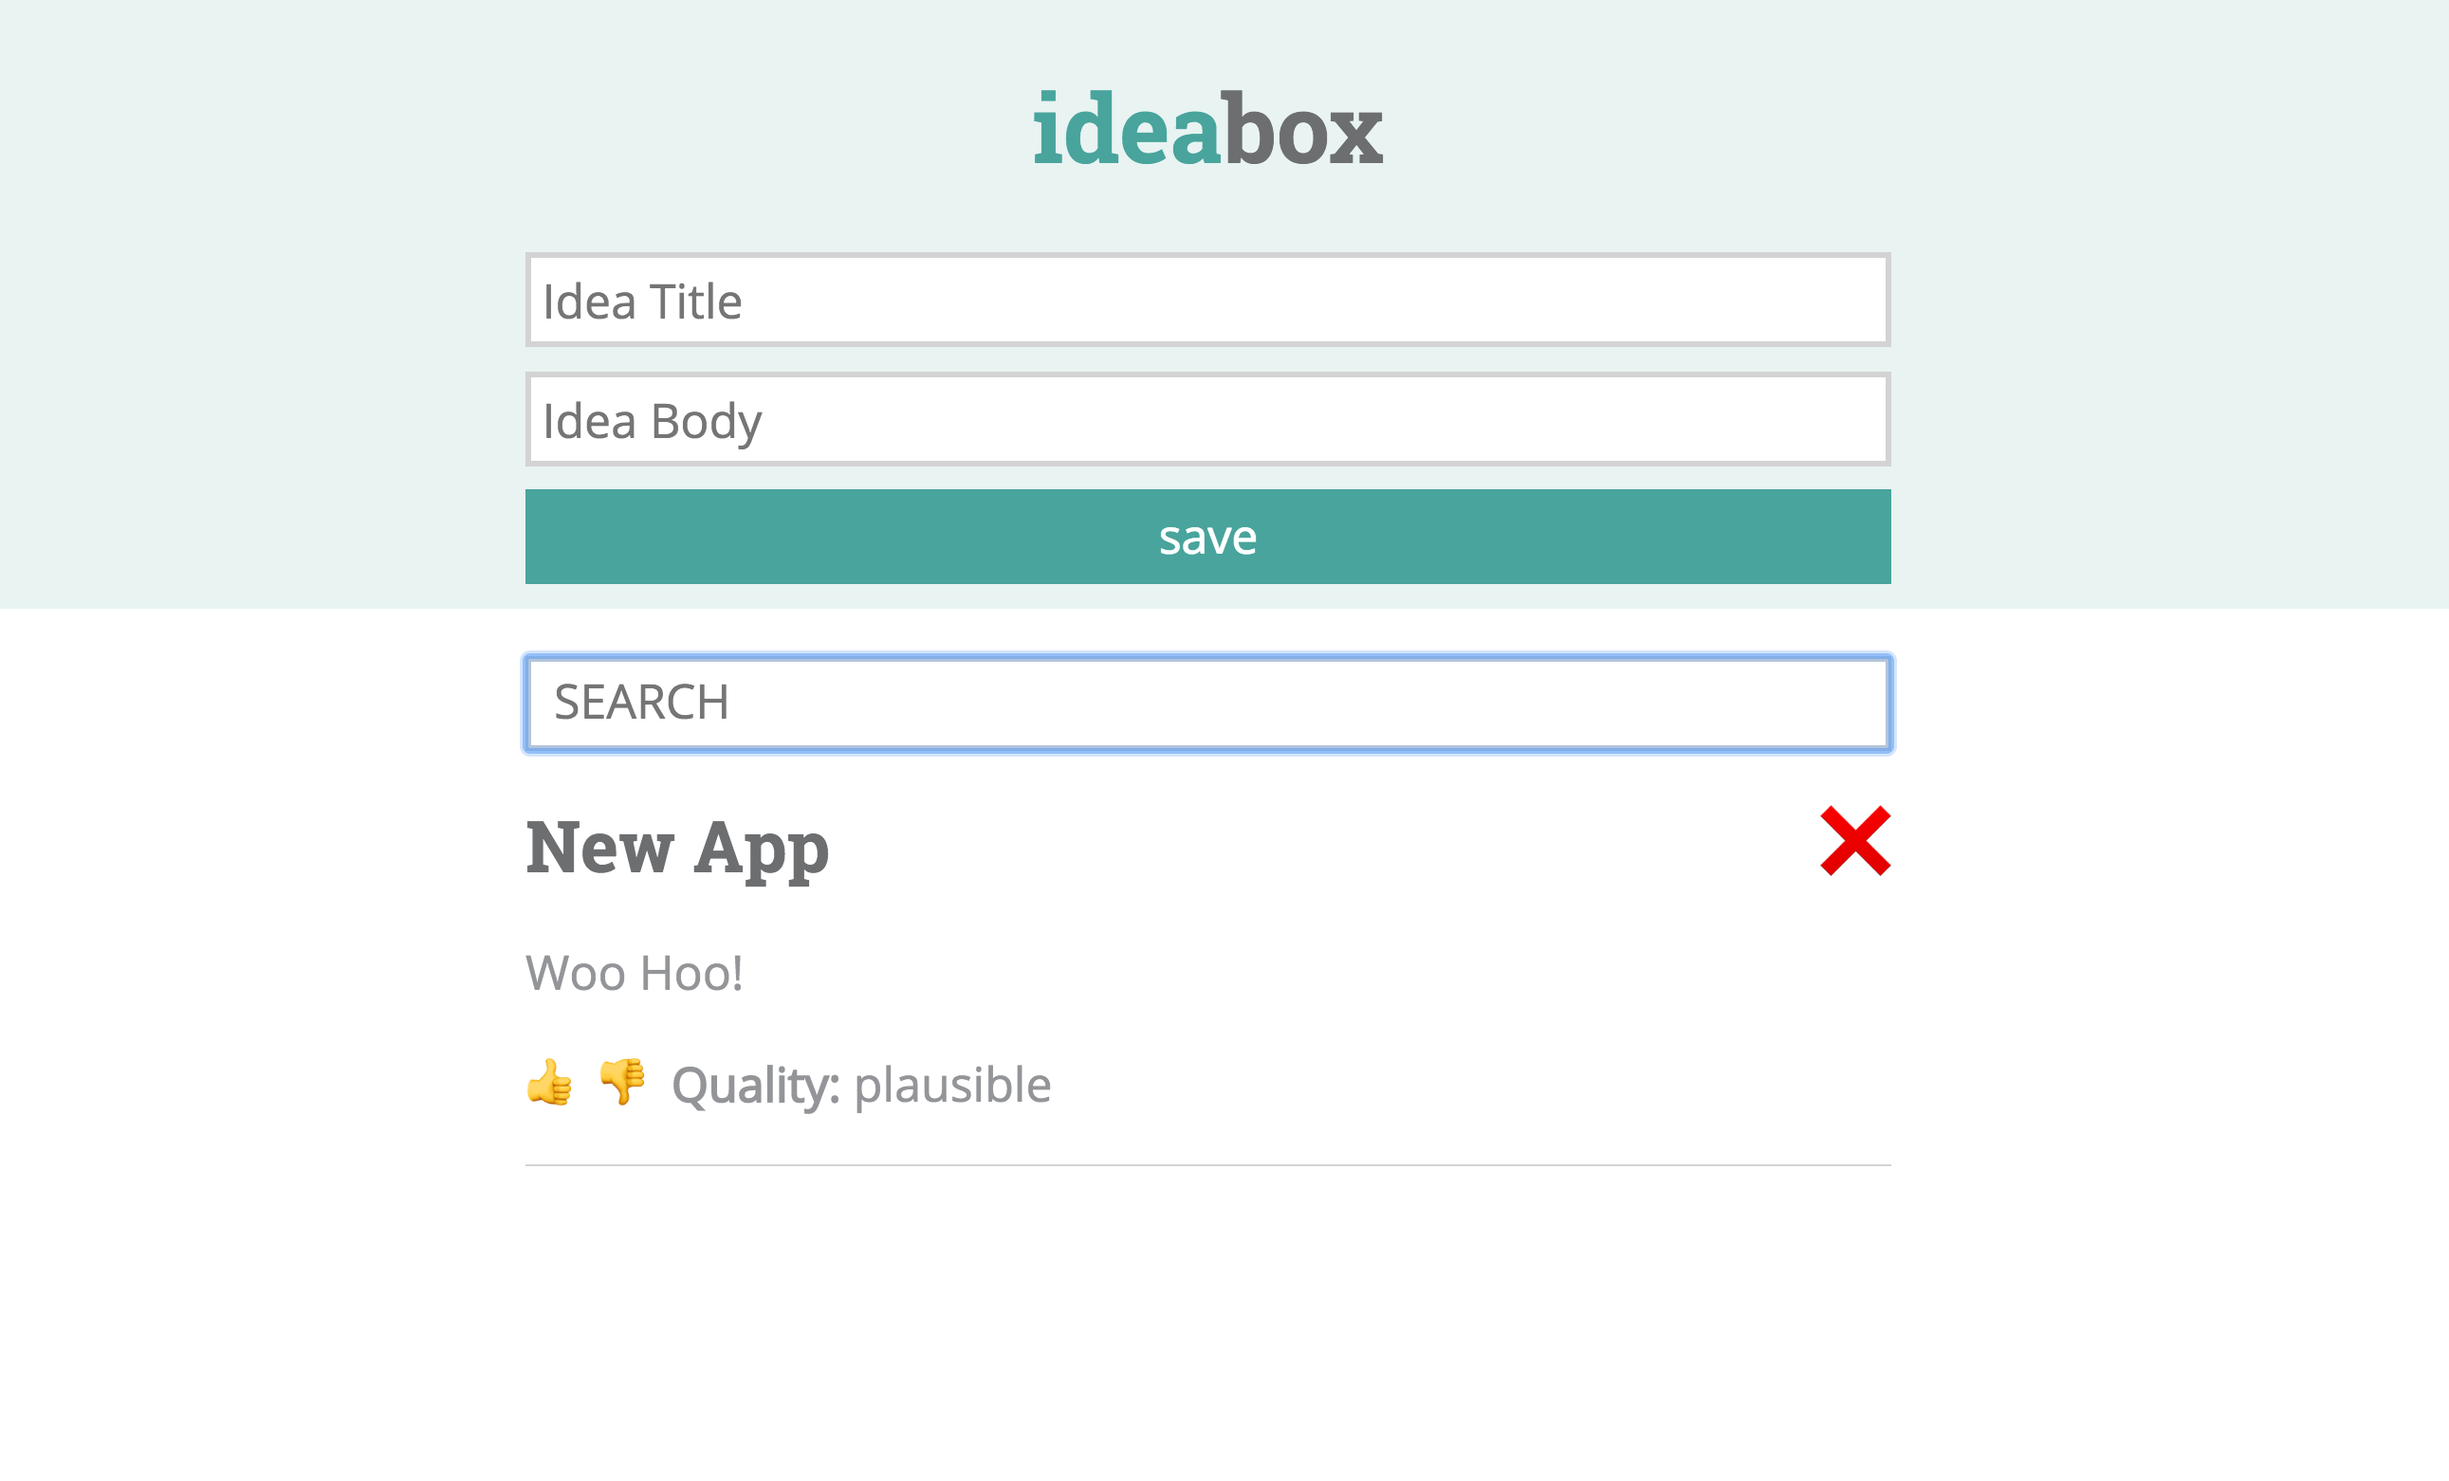
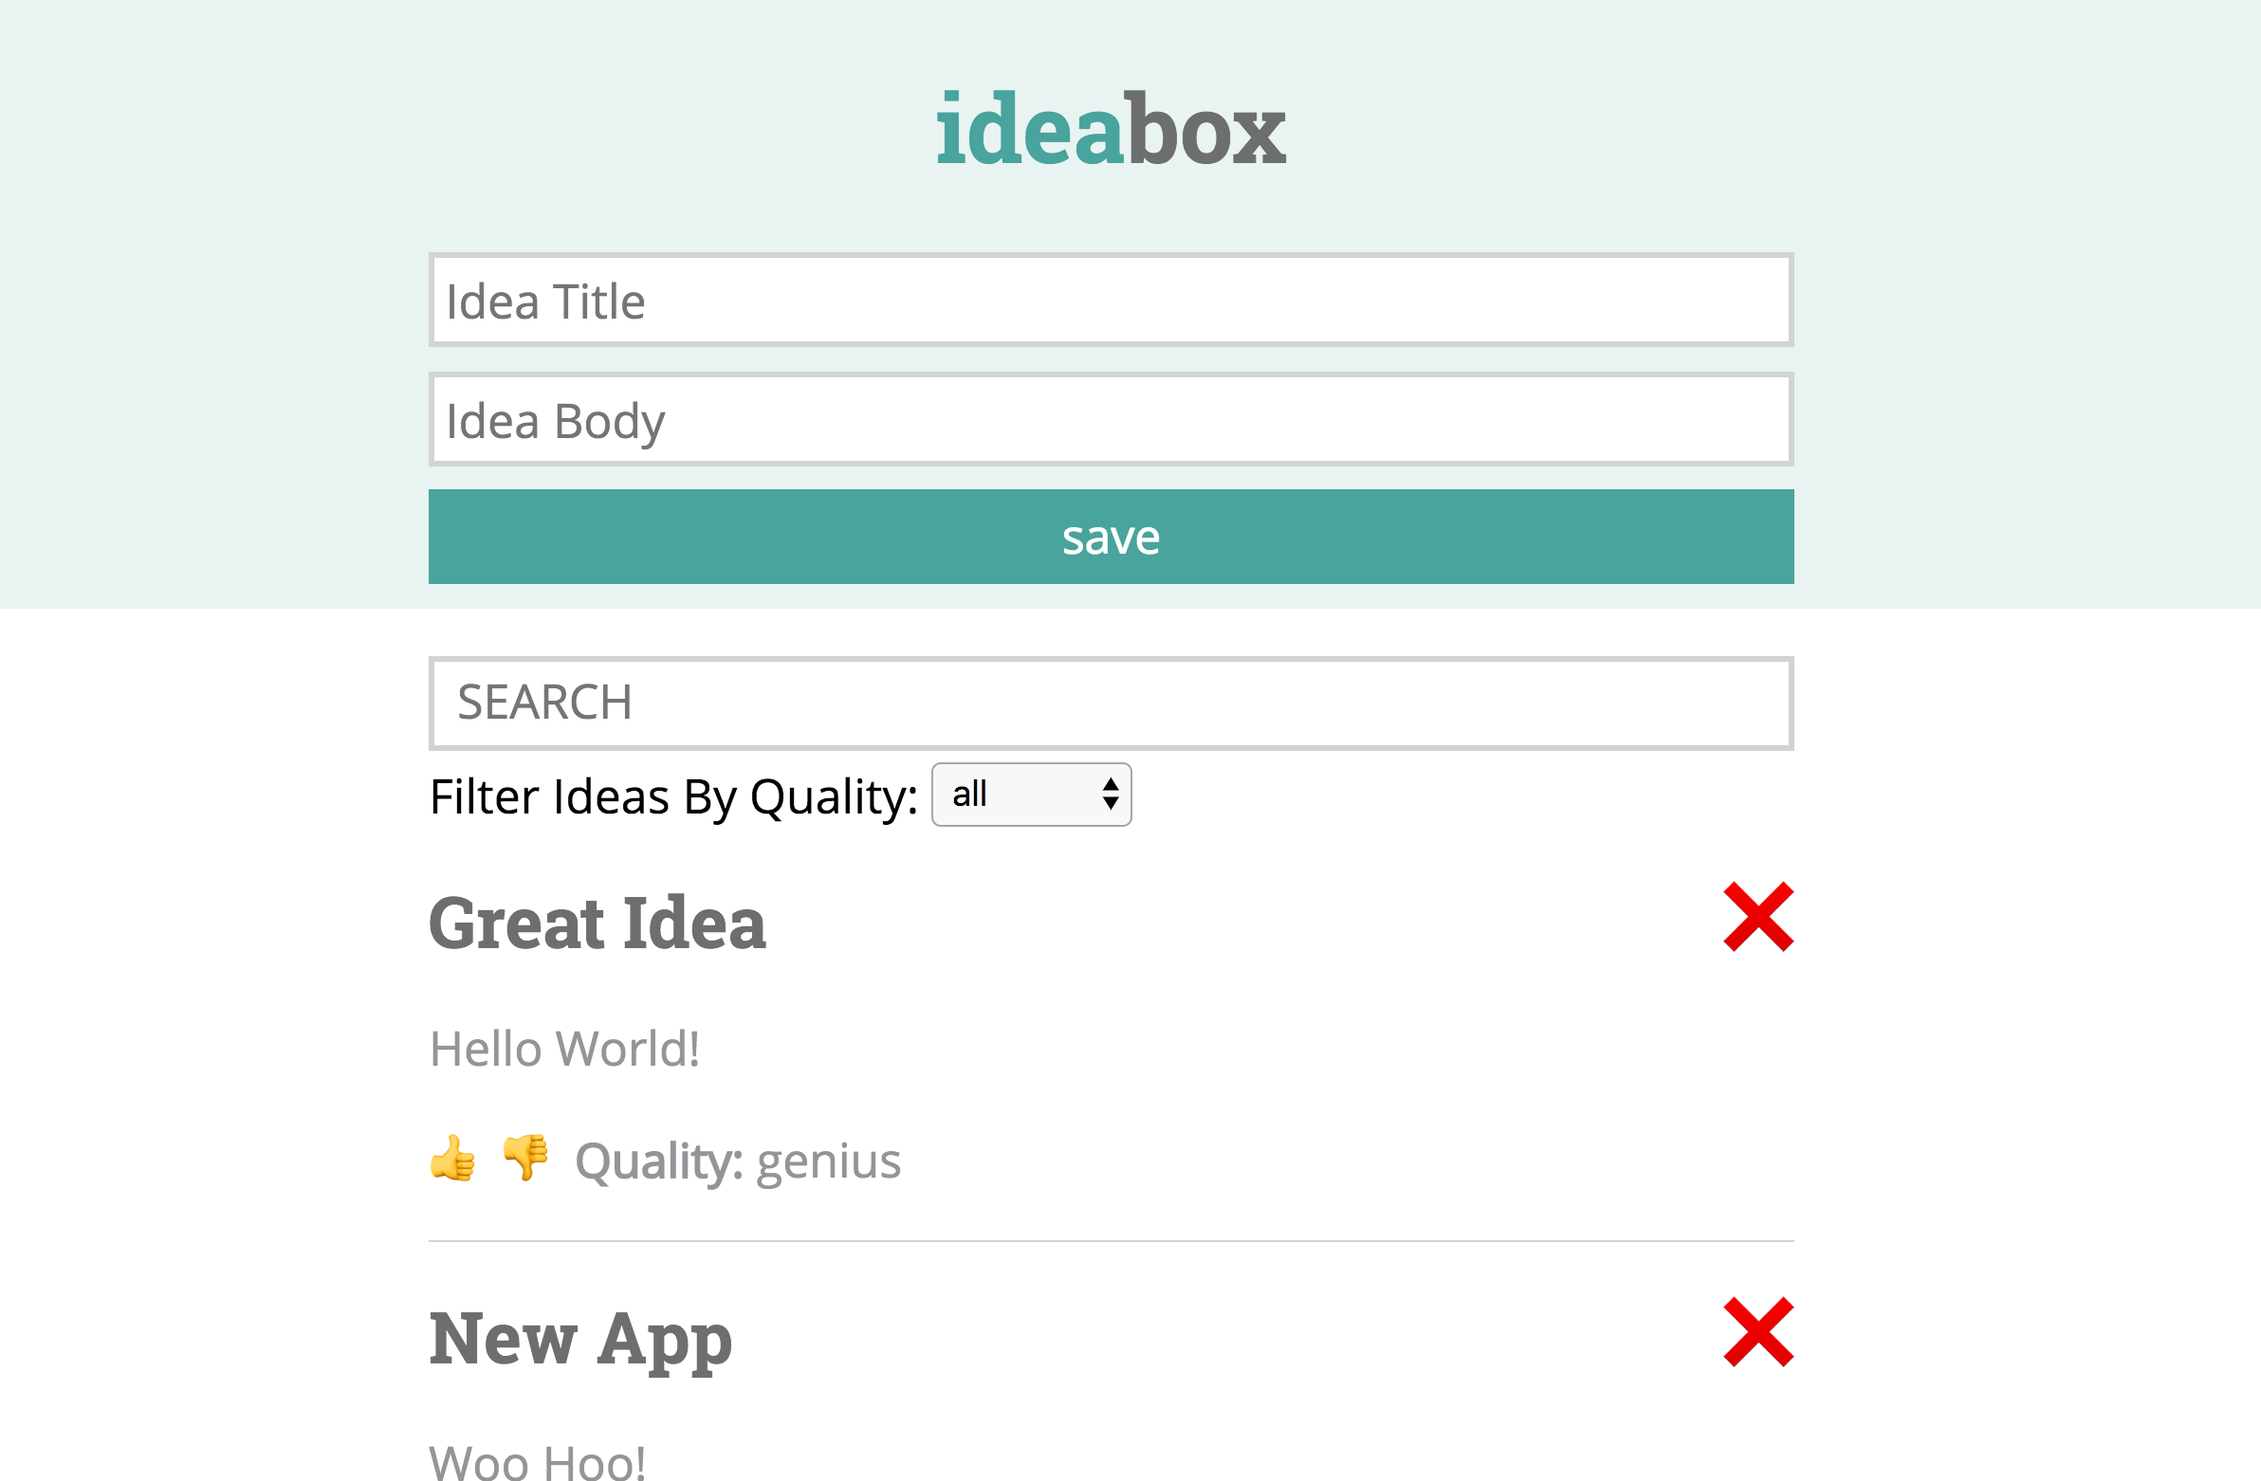
Adjust style for quality filter and update readme screenshot

diff --git a/src/styles/QualityFilter.css b/src/styles/QualityFilter.css
@@ -2,11 +2,11 @@
   font-size: 2rem;
   vertical-align: center;
   display: flex;
-  justify-content: space-around;
   width: 50%;
   margin: 0.5rem 0 0 0;
 }
 
 .quality-filter__select {
   font-size: 1.5rem;
+  margin: 0 0 0 0.5rem;
 }
